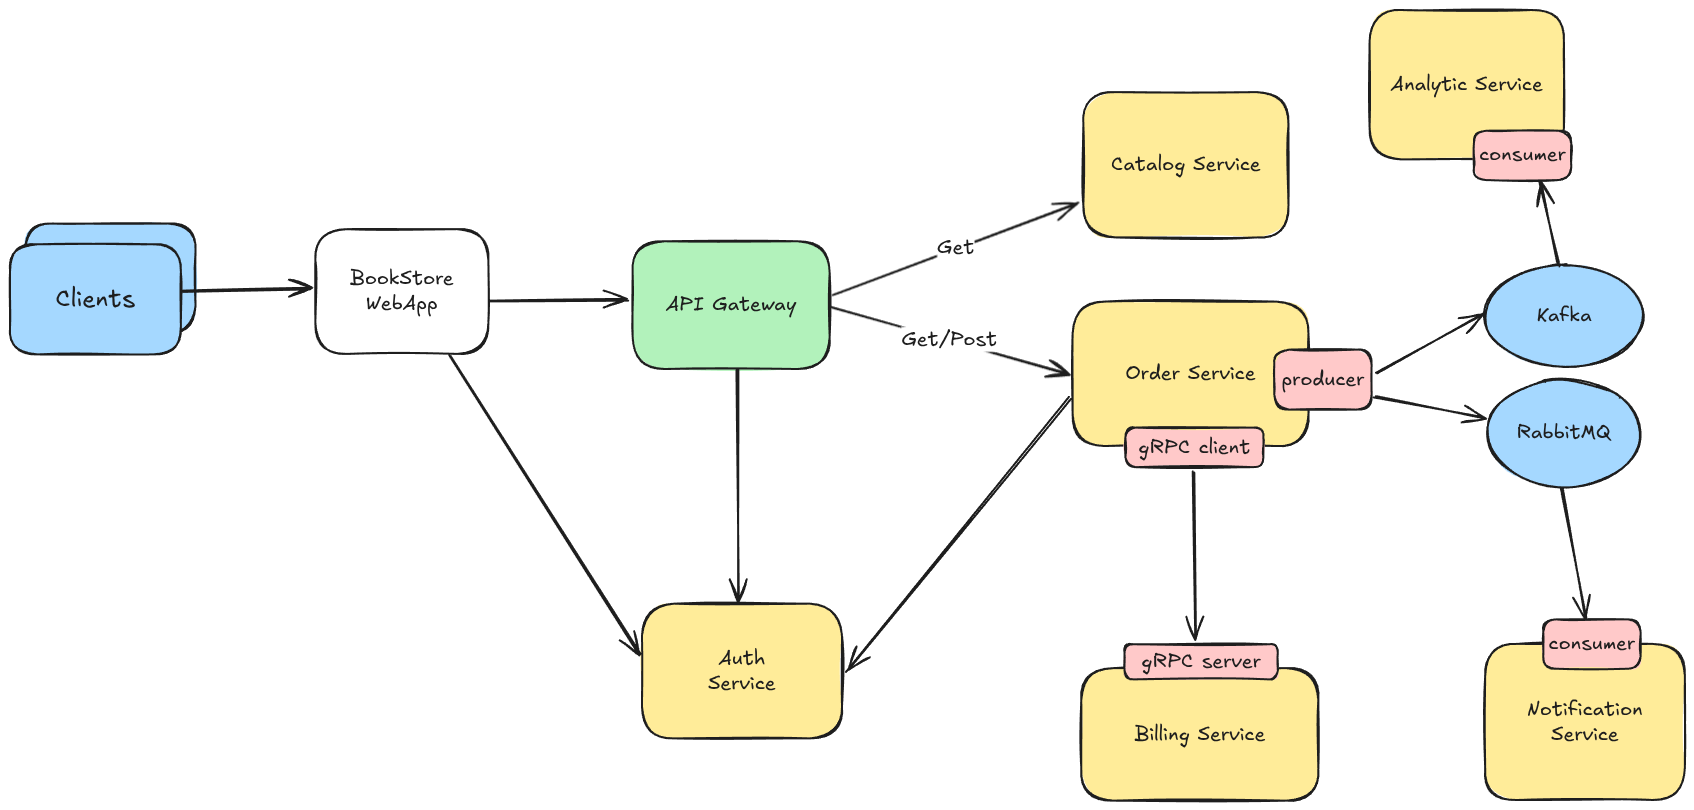
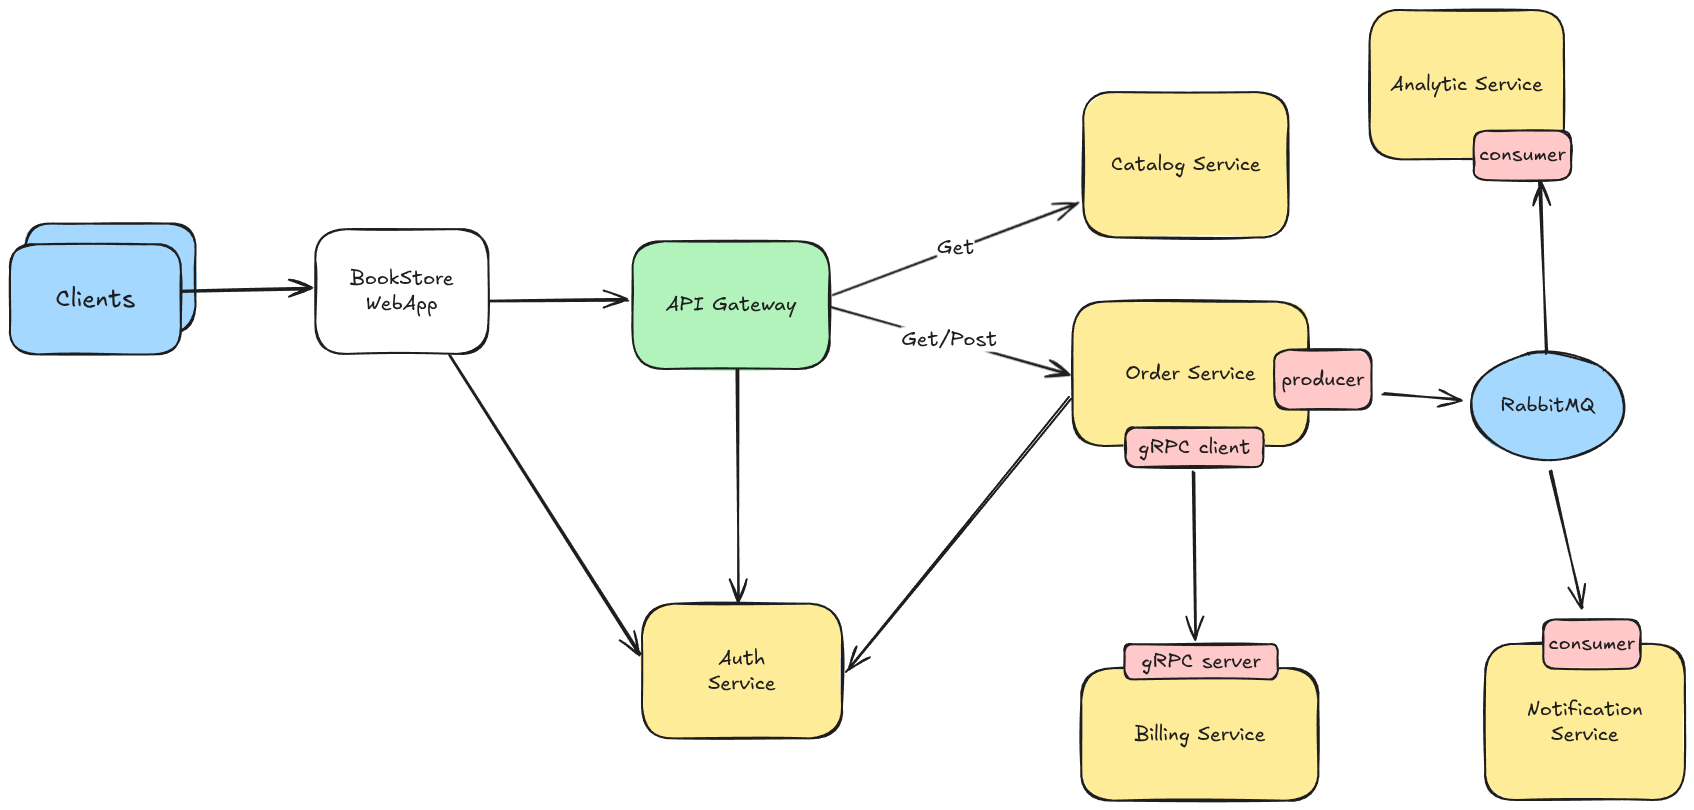
chore(docs): update image

Changed region(s): [[0.7981, 0.216, 0.9823, 0.7716]]

diff --git a/README.md b/README.md
@@ -6,7 +6,7 @@ application.
 
 ## Features
 
-- Using `Event-Driven Architecture` built on top of RabbitMQ and Kafka for asynchronous communication between services
+- Using `Event-Driven Architecture` built on top of RabbitMQ for asynchronous communication between services
 - Building RESTful APIs using `Spring Boot`, with integrated `Swagger/OpenAPI` for interactive documentation
 - Leveraging `gRPC` for efficient internal service-to-service communication
 - Implementing the `API Gateway` pattern to handle routing
@@ -22,7 +22,7 @@ application.
   visualization, `Tempo` for trace storage, and `Loki` for log aggregation
 - Containerized deployments using `Docker` and `docker-compose`
 
-## Technologies - Libraries 
+## Technologies - Libraries
 
 <h4>Core Framework</h4>
 
@@ -37,7 +37,6 @@ application.
 <h4>Message Brokers</h4>
 
 - **[RabbitMQ](https://www.rabbitmq.com/)** - Message broker implementing AMQP
-- **[Apache Kafka](https://kafka.apache.org/)** - Distributed event streaming platform
 
 <h4>Database & Migration</h4>
 
